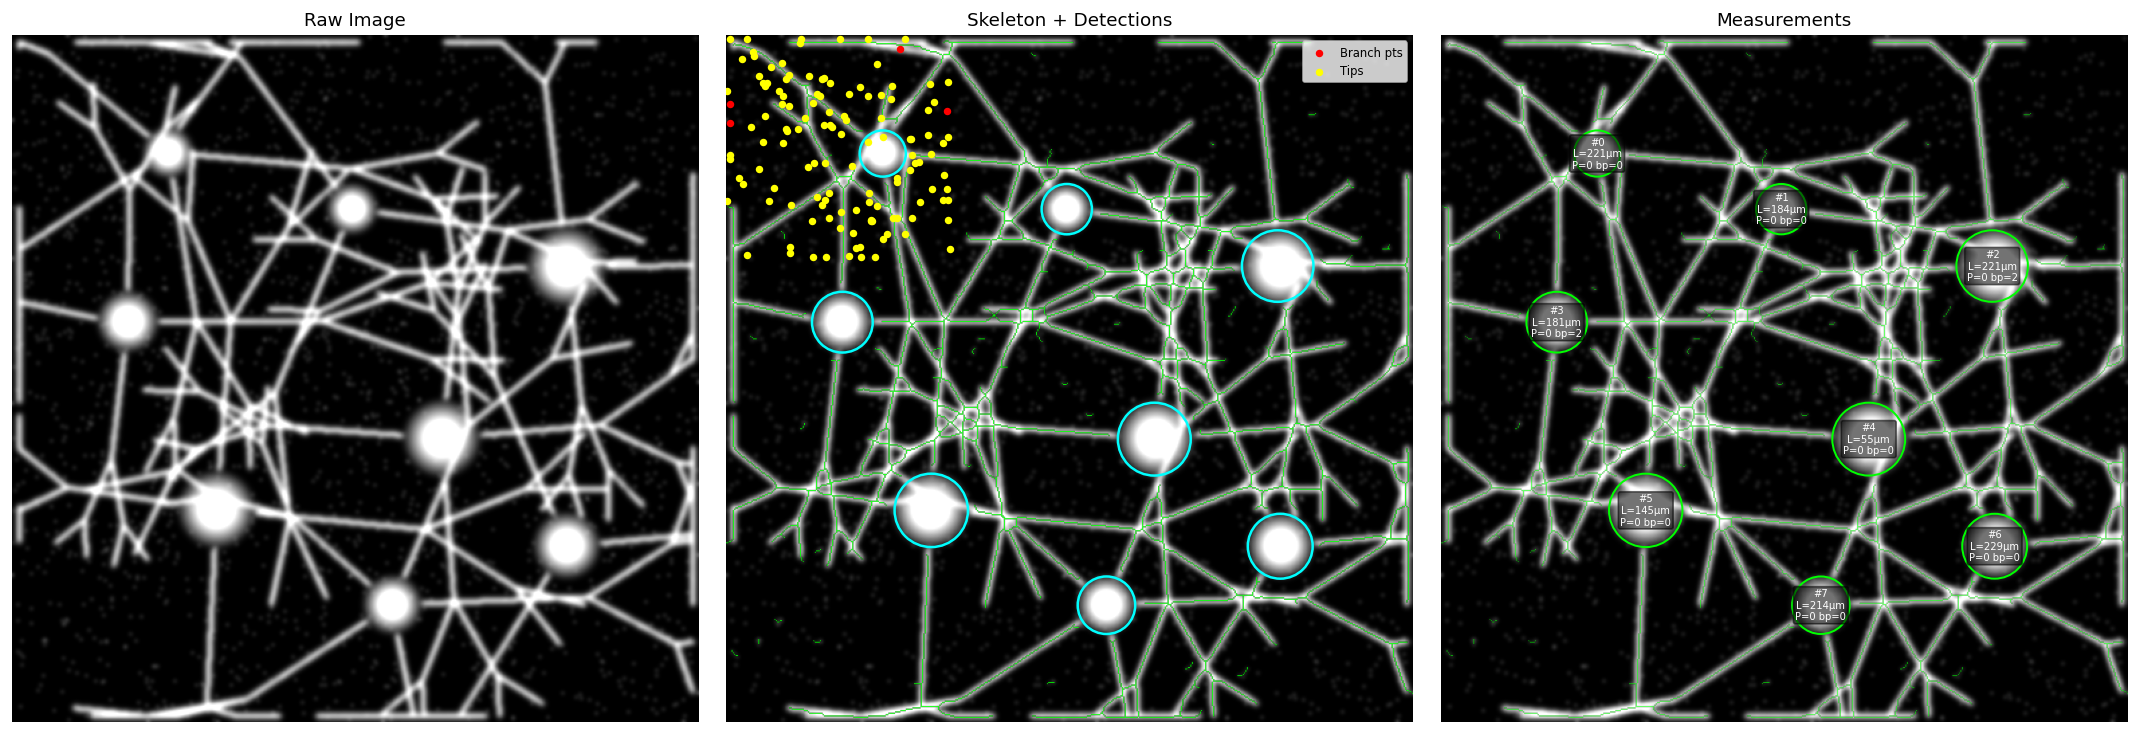
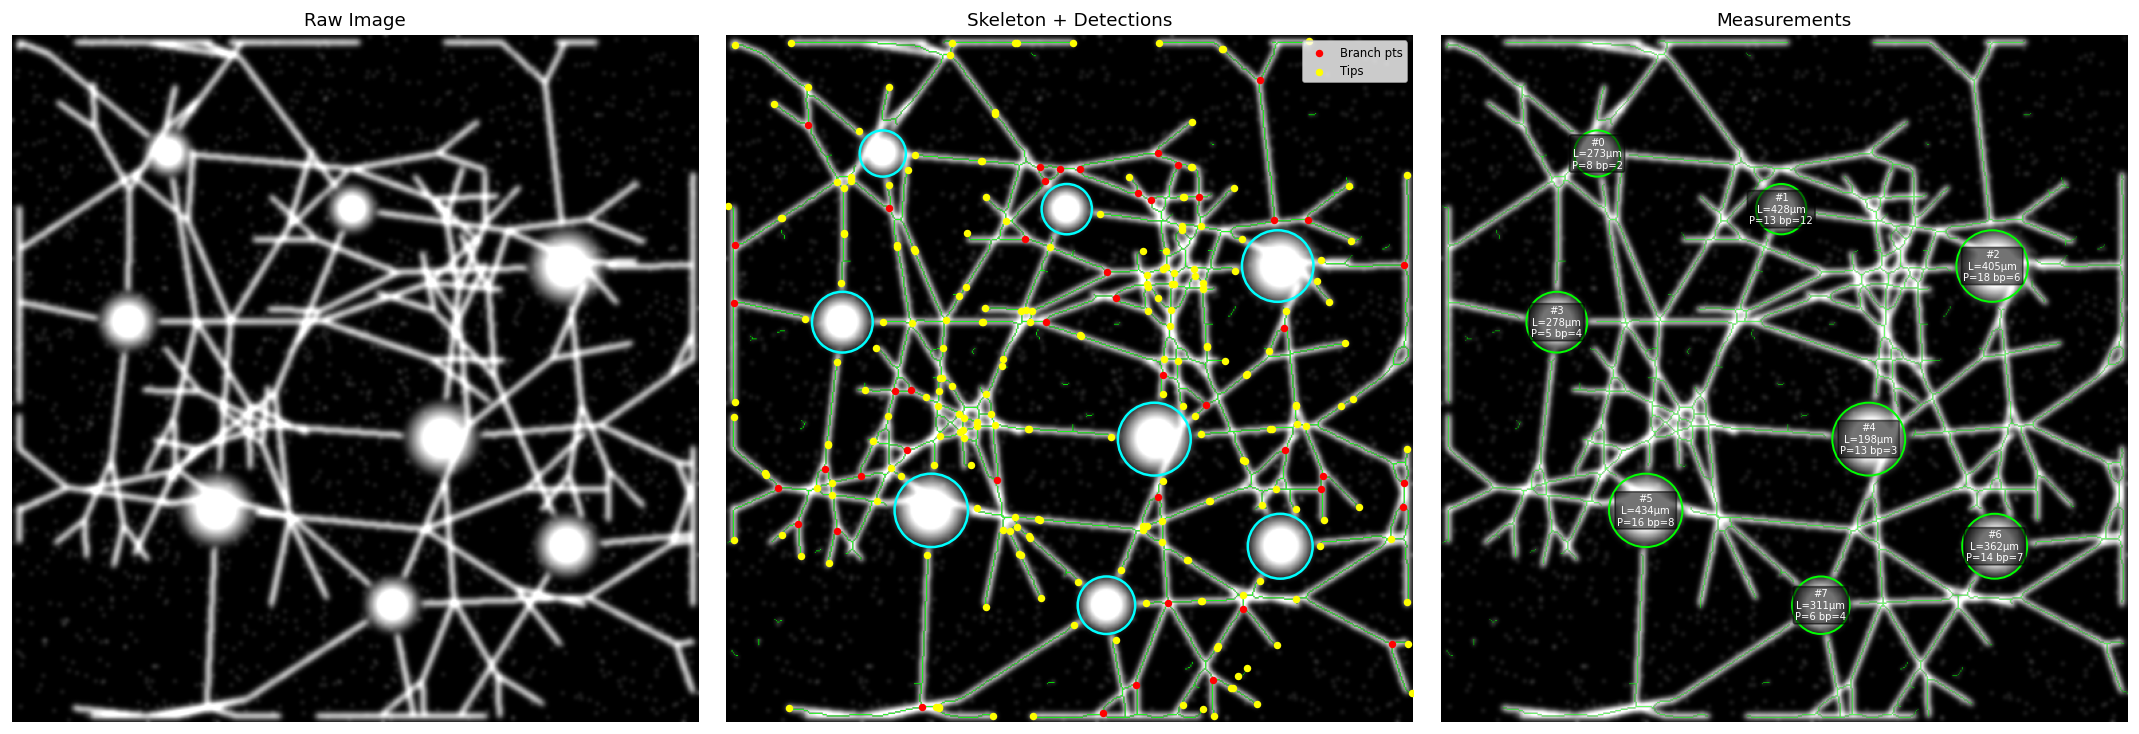
Fix tip/junction visualization and --no-cellpose flag
- skan spacing bug: pass spacing=1.0 so skeleton coordinates stay in
  pixels; multiply branch-distance by pixel_size_um manually. This
  fixes branch-point and tip dots clustering in the upper-left corner.
- Collect tips/junctions per-soma sub-graph before any merging so
  node degrees are not corrupted at Voronoi boundary nodes.
- --no-cellpose: replace broken module-namespace hack with proper
  use_cellpose instance variable passed from CLI args.

diff --git a/analyze_neurites.py b/analyze_neurites.py
@@ -101,6 +101,12 @@ def _extract_2d(image: np.ndarray, channel: Optional[int]) -> np.ndarray:
     if ndim == 2:
         return image.astype(np.float32)
 
+    # 3D Z-stack without channel dim: (Z, H, W) where Z << H, W
+    if ndim == 3 and shape[0] < shape[1] and shape[0] < shape[2] and shape[0] < 64:
+        log.info("  3D Z-stack detected (%s), max-projecting over Z", shape)
+        image = image.max(axis=0)
+        return _normalize(image.astype(np.float32))
+
     if ndim == 3:
         # Decide layout: (H, W, C) vs (C, H, W)
         # Heuristic: if last dim is small (≤4) and others are larger → channel-last
@@ -153,6 +159,7 @@ class NeuriteAnalyzer:
         neurite_threshold: float = 0.01,
         min_neurite_length: float = 10.0,
         save_viz: bool = True,
+        use_cellpose: bool = True,
     ):
         self.image_dir = Path(image_dir)
         self.output_dir = Path(output_dir)
@@ -166,6 +173,7 @@ class NeuriteAnalyzer:
         self.neurite_threshold = neurite_threshold
         self.min_neurite_length = min_neurite_length
         self.save_viz = save_viz
+        self.use_cellpose = use_cellpose and CELLPOSE_AVAILABLE
 
         self.output_dir.mkdir(parents=True, exist_ok=True)
 
@@ -233,7 +241,7 @@ class NeuriteAnalyzer:
         otherwise falls back to Laplacian-of-Gaussian blob detection.
         Returns list of dicts: {y, x, radius, mean_intensity}.
         """
-        if CELLPOSE_AVAILABLE:
+        if self.use_cellpose:
             return self._detect_soma_cellpose(image)
         return self._detect_soma_blob(image)
 
@@ -383,7 +391,9 @@ class NeuriteAnalyzer:
             return self._build_graph_fallback(skeleton)
 
     def _build_graph_skan(self, skeleton: np.ndarray):
-        skel_obj = Skeleton(skeleton.astype(bool), spacing=self.pixel_size_um)
+        # Use spacing=1 so coordinates are always in pixels (not µm).
+        # We scale branch-distance to µm ourselves below.
+        skel_obj = Skeleton(skeleton.astype(bool), spacing=1.0)
         try:
             branch_df = skan_summarize(skel_obj, separator="-")
         except TypeError:
@@ -409,10 +419,13 @@ class NeuriteAnalyzer:
                 else:
                     branch_df[r] = np.nan
 
-        # Filter short branches
+        # Filter short branches (branch-distance is still in pixels at this point)
         branch_df = branch_df[
             branch_df["branch-distance"] >= self.min_neurite_length
         ].reset_index(drop=True)
+
+        # Convert branch-distance from pixels → µm
+        branch_df["branch-distance"] = branch_df["branch-distance"] * self.pixel_size_um
 
         log.info("  Skeleton: %d branches after filtering", len(branch_df))
         return skel_obj, branch_df
@@ -597,7 +610,7 @@ class NeuriteAnalyzer:
         skeleton: np.ndarray,
         branch_df: pd.DataFrame,
         measurements: list[dict],
-        G: nx.Graph,
+        all_graphs: list,          # list[nx.Graph], one per soma
         output_path: Path,
     ) -> None:
         """Save 3-panel annotated figure."""
@@ -623,16 +636,26 @@ class NeuriteAnalyzer:
             skel_rgba[skeleton, 1] = 1.0
             skel_rgba[skeleton, 3] = 0.85
             axes[1].imshow(skel_rgba)
-        # Branch points and tips
-        if not branch_df.empty and G.number_of_nodes() > 0:
-            junctions = [(n[0], n[1]) for n in G.nodes if G.degree(n) >= 3]
-            tips = [(n[0], n[1]) for n in G.nodes if G.degree(n) == 1]
-            if junctions:
-                jy, jx = zip(*junctions)
-                axes[1].scatter(jx, jy, c="red", s=12, zorder=5, label="Branch pts")
-            if tips:
-                ty, tx = zip(*tips)
-                axes[1].scatter(tx, ty, c="yellow", s=12, zorder=5, label="Tips")
+        # Branch points and tips — collected per soma sub-graph so degrees are correct.
+        # Merging sub-graphs would corrupt degrees at Voronoi boundary nodes.
+        all_junctions_y, all_junctions_x = [], []
+        all_tips_y, all_tips_x = [], []
+        for G_i in all_graphs:
+            for n in G_i.nodes:
+                d = G_i.degree(n)
+                if d >= 3:
+                    all_junctions_y.append(n[0])
+                    all_junctions_x.append(n[1])
+                elif d == 1:
+                    all_tips_y.append(n[0])
+                    all_tips_x.append(n[1])
+        if all_junctions_x:
+            axes[1].scatter(all_junctions_x, all_junctions_y,
+                            c="red", s=12, zorder=5, label="Branch pts")
+        if all_tips_x:
+            axes[1].scatter(all_tips_x, all_tips_y,
+                            c="yellow", s=12, zorder=5, label="Tips")
+        if all_junctions_x or all_tips_x:
             axes[1].legend(fontsize=7, loc="upper right")
         axes[1].set_title("Skeleton + Detections", fontsize=11)
         axes[1].axis("off")
@@ -754,16 +777,11 @@ class NeuriteAnalyzer:
             if parts:
                 viz_branch_df = pd.concat(parts, ignore_index=True)
 
-        # Combined graph for visualization (junction/tip overlay)
-        viz_G = nx.Graph()
-        for G_i in all_graphs:
-            viz_G.update(G_i)
-
-        # Visualization
+        # Visualization — pass individual soma graphs so tip/junction degrees are correct
         if self.save_viz:
             viz_path = self.output_dir / (path.stem + "_analyzed.png")
             self.save_visualization(
-                soma_prep, soma_list, skeleton, viz_branch_df, measurements, viz_G, viz_path
+                soma_prep, soma_list, skeleton, viz_branch_df, measurements, all_graphs, viz_path
             )
 
         return self.results_to_dataframe(measurements, path.name)
@@ -892,11 +910,6 @@ def main():
     if args.verbose:
         logging.getLogger().setLevel(logging.DEBUG)
 
-    if args.no_cellpose and CELLPOSE_AVAILABLE:
-        import analyze_neurites as _self
-        _self.CELLPOSE_AVAILABLE = False
-        log.info("Cellpose disabled — using blob_log fallback")
-
     analyzer = NeuriteAnalyzer(
         image_dir=args.image_dir,
         output_dir=args.output_dir,
@@ -909,6 +922,7 @@ def main():
         neurite_threshold=args.neurite_threshold,
         min_neurite_length=args.min_branch_length,
         save_viz=not args.no_visualization,
+        use_cellpose=not args.no_cellpose,
     )
 
     results = analyzer.run()
